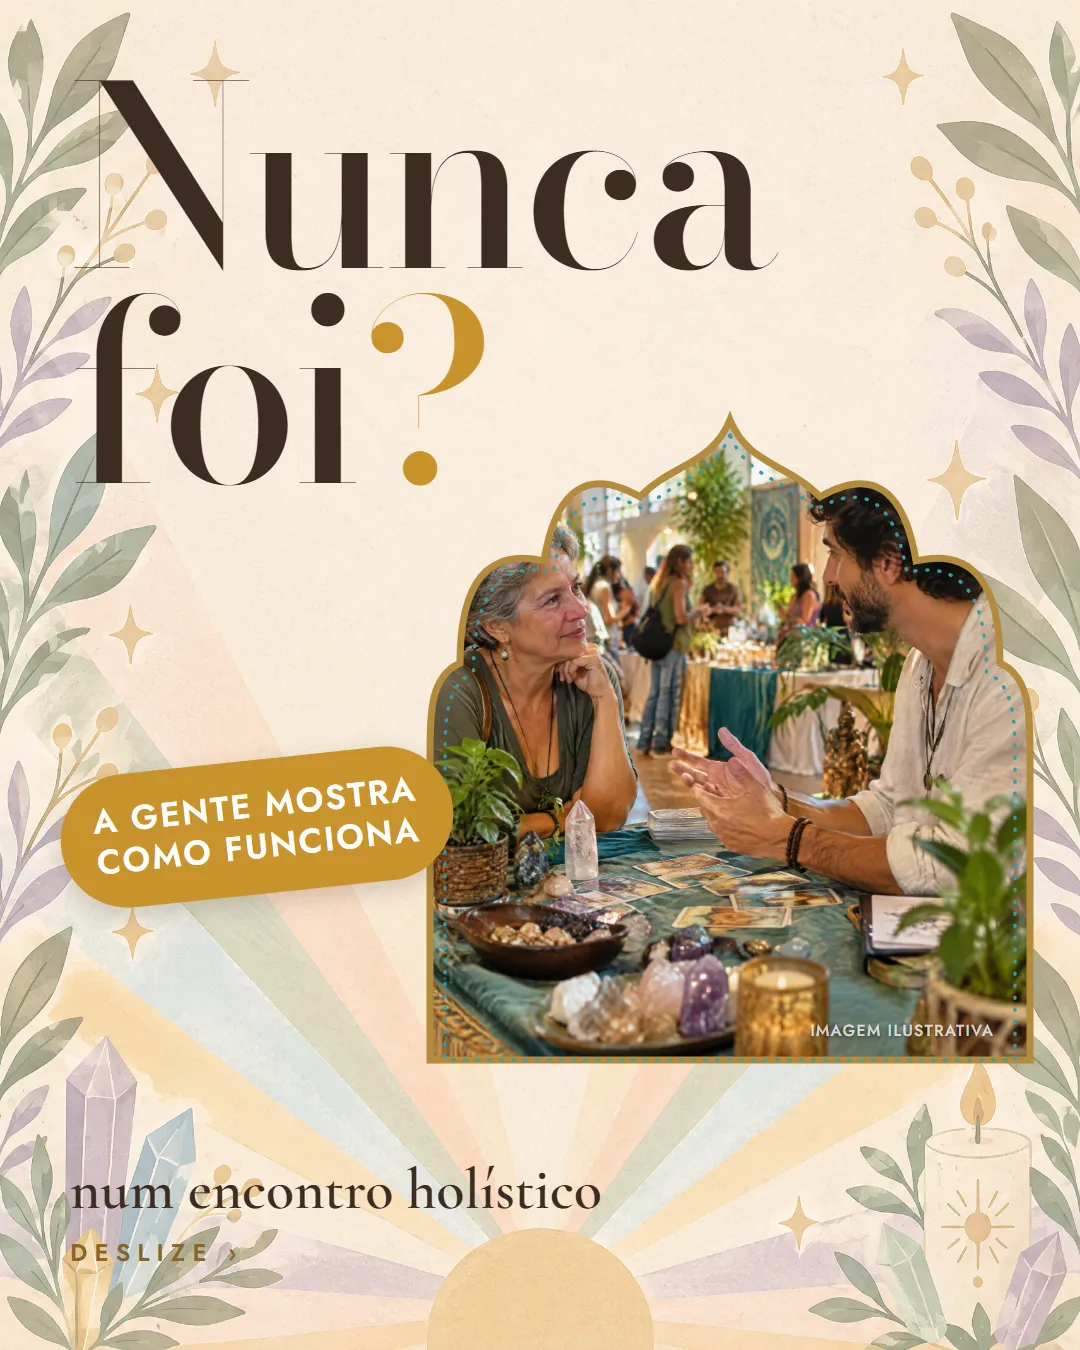
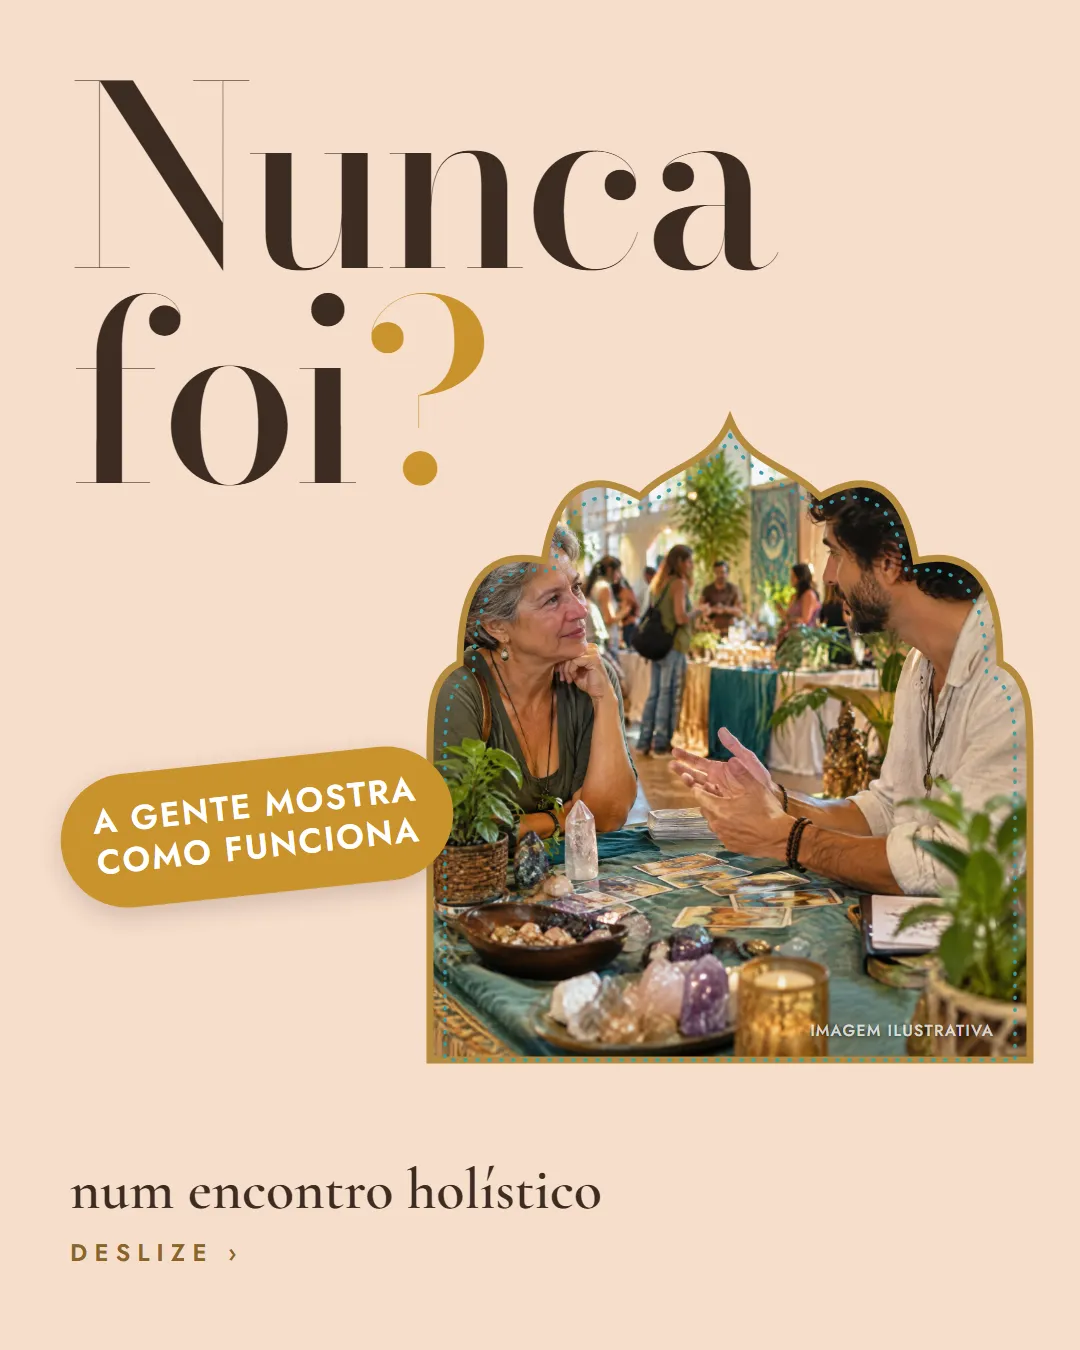
Holistico: Instagram na linha minimalista (raios so no Salve a data e no Festival, fundos lisos nas cores dos raios) (02/11)

diff --git a/public/excellence/2026-11-02-holistico-instagram/index.html b/public/excellence/2026-11-02-holistico-instagram/index.html
@@ -18,7 +18,7 @@
   <img class="logo" src="logo.png" alt="Excellence Eventos">
   <p class="olho">Material para aprovação · <span id="data"></span></p>
   <h1>Instagram do 5º Encontro Holístico</h1>
-  <p class="intro">O Instagram do Encontro repaginado, agora com mais vida: o fundo de raios do perfil de vocês, a foto dentro da mandala do logo e as datas em destaque. Perfil, 7 posts novos (3 fixados no topo), 6 destaques e o carrossel de expositor. As fotos com pessoas são <b>imagens ilustrativas</b>, feitas por IA: quando vocês mandarem fotos das edições anteriores, elas entram no lugar.</p>
+  <p class="intro">O Instagram do Encontro repaginado, agora com mais vida: as cores do perfil de vocês, a foto dentro da mandala do logo e as datas em destaque. Perfil, 7 posts novos (3 fixados no topo), 6 destaques e o carrossel de expositor. As fotos com pessoas são <b>imagens ilustrativas</b>, feitas por IA: quando vocês mandarem fotos das edições anteriores, elas entram no lugar.</p>
   <ol class="como">
     <li>Arraste a imagem pro lado pra ver as versões. Toque nela pra ampliar.</li>
     <li>Em cada peça, toque em <b>Aprovado</b> ou <b>Quero mudar</b>.</li>
